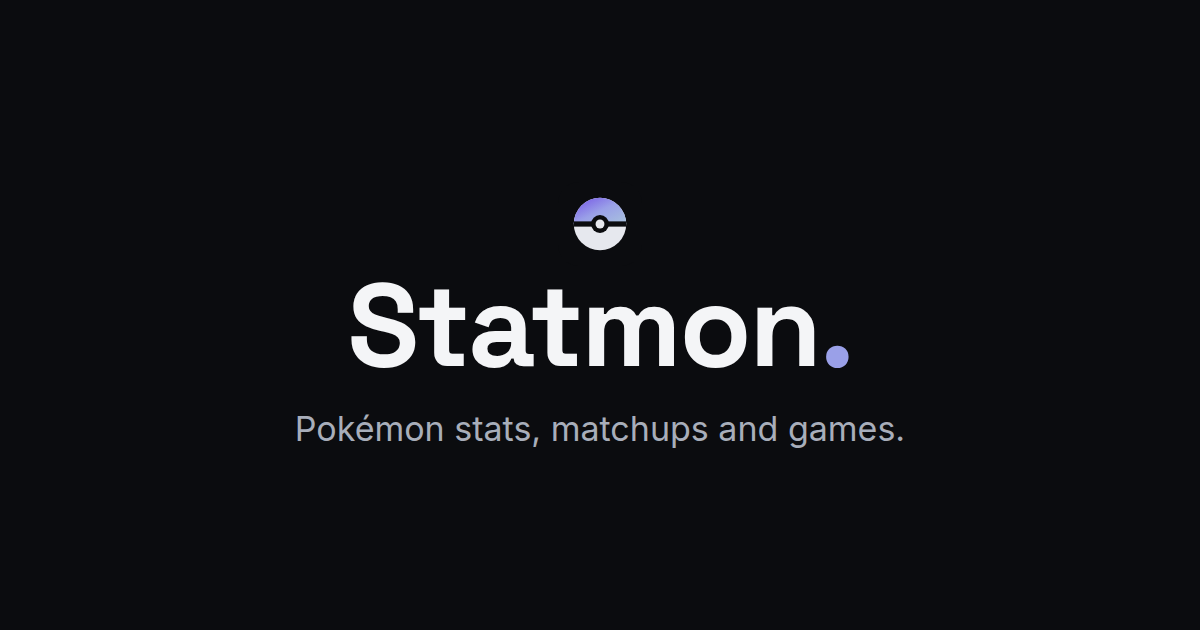
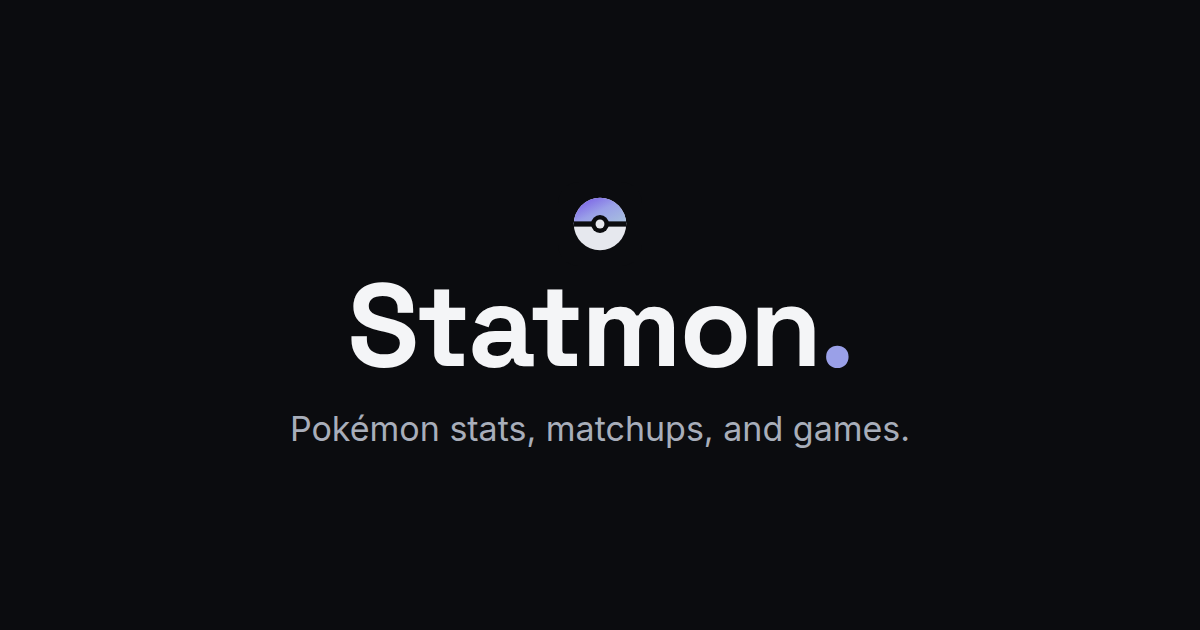
Used the serial comma throughout the site and README, starting with the tagline

Changed region(s): [[0.2158, 0.6635, 0.7708, 0.7238]]

diff --git a/index.html b/index.html
@@ -18,7 +18,7 @@
     <link rel="manifest" href="/site.webmanifest" />
     <meta name="theme-color" content="#0b0c0f" />
 
-    <title>Statmon — Pokémon comparison, dex, type chart and games</title>
+    <title>Statmon — Pokémon comparison, dex, type chart, and games</title>
     <meta
       name="description"
       content="Compare two Pokémon head to head, rank the whole dex by any stat, and read the full type chart including dual types, each as of any generation. Then drill it all in the games."
@@ -33,7 +33,7 @@
     <meta property="og:site_name" content="Statmon" />
     <meta
       property="og:title"
-      content="Statmon — Pokémon comparison, dex, type chart and games"
+      content="Statmon — Pokémon comparison, dex, type chart, and games"
     />
     <meta
       property="og:description"
@@ -47,14 +47,14 @@
     <meta property="og:image:height" content="630" />
     <meta
       property="og:image:alt"
-      content="The Statmon wordmark over the line: Pokémon stats, matchups and games."
+      content="The Statmon wordmark over the line: Pokémon stats, matchups, and games."
     />
     <meta property="og:url" content="https://statmon.noahpn.dev/" />
 
     <meta name="twitter:card" content="summary_large_image" />
     <meta
       name="twitter:title"
-      content="Statmon — Pokémon comparison, dex, type chart and games"
+      content="Statmon — Pokémon comparison, dex, type chart, and games"
     />
     <meta
       name="twitter:description"

diff --git a/src/components/Layout.jsx b/src/components/Layout.jsx
@@ -29,7 +29,7 @@ const DEX_SIZE = ALL_POKEMON.length;
 // tools", so a crawler and a visitor who clicked Home read two different names
 // for the same page. Nothing checked it, because no check reads prose (D-086) —
 // routes.test.jsx now reads both files and asserts they agree. (D-091)
-const SITE_TITLE = "Statmon — Pokémon comparison, dex, type chart and games";
+const SITE_TITLE = "Statmon — Pokémon comparison, dex, type chart, and games";
 
 // `h-14` is the header's own height, and it is a target-size fix rather than a
 // layout one: these were bare 14px text with no padding, so the clickable box
@@ -459,7 +459,7 @@ export default function Layout() {
                   repository
                   <span className="sr-only"> (opens in a new tab)</span>
                 </a>
-                . Pokémon is © Nintendo, Game Freak and The Pokémon Company.
+                . Pokémon is © Nintendo, Game Freak, and The Pokémon Company.
                 Statmon is an unofficial fan project.
               </p>
               <p className="shrink-0 text-caption text-tertiary sm:text-right">

diff --git a/src/routes.test.jsx b/src/routes.test.jsx
@@ -710,7 +710,7 @@ describe("Home's feature previews (D-043)", () => {
     // was true of every layout this page has had.
     // Found first, then ordered: an `indexOf` of -1 is less than anything,
     // so a renamed tagline would otherwise pass this by not being there.
-    const tagline = page.indexOf("Pokémon stats, matchups and games");
+    const tagline = page.indexOf("Pokémon stats, matchups, and games");
     expect(tagline).toBeGreaterThan(-1);
     expect(tagline).toBeLessThan(page.indexOf("Volcarona"));
   });
@@ -910,7 +910,7 @@ describe("Home's feature previews (D-043)", () => {
   // guarantee — the audit proves the number, this proves the site still uses it.
   it("keeps the hero tagline on the colour the scrim was audited for", () => {
     const tagline = render("/").match(
-      /<p[^>]*>Pokémon stats, matchups and games\.<\/p>/,
+      /<p[^>]*>Pokémon stats, matchups, and games\.<\/p>/,
     )?.[0];
     expect(tagline).toBeDefined();
     expect(tagline).toContain("text-primary");

diff --git a/docs/og-image.html b/docs/og-image.html
@@ -152,7 +152,7 @@
         <div class="brand">
           <img class="fav" src="../public/favicon.svg" alt="" />
           <div class="word">Statmon<span class="dot">.</span></div>
-          <div class="sub">Pokémon stats, matchups and games.</div>
+          <div class="sub">Pokémon stats, matchups, and games.</div>
         </div>
       </div>
     </div>
@@ -164,7 +164,7 @@
         <div class="brand">
           <img class="fav" src="../public/favicon.svg" alt="" />
           <div class="word">Statmon<span class="dot">.</span></div>
-          <div class="sub">Pokémon stats, matchups and games.</div>
+          <div class="sub">Pokémon stats, matchups, and games.</div>
         </div>
       </div>
     </div>

diff --git a/src/pages/Home.jsx b/src/pages/Home.jsx
@@ -52,7 +52,7 @@ export default function Home() {
             site that called the site something, which §14 rules out. This one
             says what is here. */}
         <p className="mx-auto mt-3 max-w-xl text-body-lg text-primary">
-          Pokémon stats, matchups and games.
+          Pokémon stats, matchups, and games.
         </p>
       </SpriteWall>
 

diff --git a/README.md b/README.md
@@ -1,6 +1,6 @@
 # Statmon
 
-Pokémon reference tools, built for myself: a side-by-side stat comparison, the whole dex in one sortable table, and a type chart that handles dual types. Each can be read as of any generation, with that generation's stats, typings and type chart. Two games use the same data to quiz you instead.
+Pokémon reference tools, built for myself: a side-by-side stat comparison, the whole dex in one sortable table, and a type chart that handles dual types. Each can be read as of any generation, with that generation's stats, typings, and type chart. Two games use the same data to quiz you instead.
 
 **Live at [statmon.noahpn.dev](https://statmon.noahpn.dev/).** The [About](https://statmon.noahpn.dev/about) page says more about why it exists.
 
@@ -8,7 +8,7 @@ Pokémon reference tools, built for myself: a side-by-side stat comparison, the 
 
 ## Why
 
-Sometimes I go on a nostalgia trip and play a ton of old childhood games. One summer that turned into playing every mainline Pokémon game end to end, Generation 1 through 5. Every playthrough, I'd hit a fork in the road where I had to pick between two Pokémon, and what mattered most to me was speed and attack. The sites I found for comparing them either looked a little outdated or were cluttered with features I didn't need. So I built a lighter version of my own: minimal, quick and clear.
+Sometimes I go on a nostalgia trip and play a ton of old childhood games. One summer that turned into playing every mainline Pokémon game end to end, Generation 1 through 5. Every playthrough, I'd hit a fork in the road where I had to pick between two Pokémon, and what mattered most to me was speed and attack. The sites I found for comparing them either looked a little outdated or were cluttered with features I didn't need. So I built a lighter version of my own: minimal, quick, and clear.
 
 Playing the old games again also turned up something the site was quietly getting wrong. Generation 1 has no Sp. Attack or Sp. Defense: one Special stat covers both. Plenty of Pokémon have had their stats or typing changed since, too. So every tool can now be read as of an earlier generation, with the numbers that were actually in the game then.
 
@@ -39,11 +39,11 @@ The same data, asking the questions instead. Every round ends with a link into t
 
 ## How it works
 
-Everything comes from [PokéAPI](https://pokeapi.co), pulled once at build time into a local JSON file. The sprites, the artwork and both webfonts are downloaded and committed to the repo. So the site requests nothing from any other server: it's static files, and its Content Security Policy only allows its own origin. Search, the stat math and the type matchups all run against the local data.
+Everything comes from [PokéAPI](https://pokeapi.co), pulled once at build time into a local JSON file. The sprites, the artwork, and both webfonts are downloaded and committed to the repo. So the site requests nothing from any other server: it's static files, and its Content Security Policy only allows its own origin. Search, the stat math, and the type matchups all run against the local data.
 
 Two parts are written by hand. The type chart has three eras (Gen 1, Gen 2 to 5, and Gen 6 on), and every data build checks all three against PokéAPI, so a typo fails the build. The 20 ability effects are a table too, because PokéAPI describes what an ability does only in prose: Levitate's entry reads "Evades Ground moves." The build checks that each one is a real ability some Pokémon has, and unit tests cover what each one does.
 
-It's built with React, Vite, Tailwind, React Router and plain JavaScript, and served as static assets on Cloudflare Workers.
+It's built with React, Vite, Tailwind, React Router, and plain JavaScript, and served as static assets on Cloudflare Workers.
 
 ## Run it
 
@@ -54,7 +54,7 @@ npm install
 npm run dev
 ```
 
-The dataset, sprites and fonts are already committed, so that's all it takes. When something upstream changes, `npm run build:data` rebuilds the dataset from PokéAPI, `npm run vendor:images` fetches the sprites and artwork, and `npm run vendor:fonts` fetches the fonts with their licences.
+The dataset, sprites, and fonts are already committed, so that's all it takes. When something upstream changes, `npm run build:data` rebuilds the dataset from PokéAPI, `npm run vendor:images` fetches the sprites and artwork, and `npm run vendor:fonts` fetches the fonts with their licences.
 
 ## Checks
 
@@ -63,7 +63,7 @@ The dataset, sprites and fonts are already committed, so that's all it takes. Wh
 - `lint`: ESLint.
 - `format:check`: Prettier.
 - `audit:classes`: no class string sets the same CSS property twice. Tailwind resolves those by stylesheet order, not by the order they're written, so the one that wins isn't the one you meant.
-- `audit:styles`: every utility is one the [style guide](docs/06_style_guide.md) allows. Colours are semantic tokens, text uses the 22 named styles, and spacing, radius, opacity and layering each come from a closed set. A value the guide doesn't list fails.
+- `audit:styles`: every utility is one the [style guide](docs/06_style_guide.md) allows. Colours are semantic tokens, text uses the 22 named styles, and spacing, radius, opacity, and layering each come from a closed set. A value the guide doesn't list fails.
 - `test:run`: 497 unit tests, covering the stat math, the dex's sorting and filters, the generation lens, the ability table, both games' question generators, a server render of every route, accessibility and copy regressions, and one implementation of each shared component.
 - `build`: the production build.
 - `audit:contrast`: WCAG AA contrast for every text and colour pairing, in 12 groups, including text on all 18 type tints, text on the flame gradient, and the edges of the text fields.
@@ -74,20 +74,20 @@ On every push to `main`, GitHub Actions runs the same nine. `npm run shoot:docs`
 
 ## Limits
 
-- **Stats, types and abilities only.** No moves, movesets, EVs, IVs or natures, and no damage calculator.
+- **Stats, types, and abilities only.** No moves, movesets, EVs, IVs, or natures, and no damage calculator.
 - **Only the 20 abilities in the table change the numbers.** Every other ability is shown on its card without affecting a matchup. Dry Skin's extra damage from Fire (1.25×) isn't modelled either, because the chart has no room for it.
 - **The data is a snapshot.** It's rebuilt from PokéAPI by hand, so Pokémon released after the last build aren't in it.
-- **Effective never asks for ⅛×.** A double resistance plus an ability that halves again reaches it, but only four Pokémon can: Dewgong, Spheal, Sealeo and Walrein. The type chart still shows it.
+- **Effective never asks for ⅛×.** A double resistance plus an ability that halves again reaches it, but only four Pokémon can: Dewgong, Spheal, Sealeo, and Walrein. The type chart still shows it.
 
 ## Docs
 
-My working notes are in [`docs/`](docs/): the original brainstorm, the spec, the design system and a dated log of why things are built the way they are. To see how I think through a project, start with the [decision log](docs/03_decisions.md).
+My working notes are in [`docs/`](docs/): the original brainstorm, the spec, the design system, and a dated log of why things are built the way they are. To see how I think through a project, start with the [decision log](docs/03_decisions.md).
 
 ## Credits
 
 Data and images come from [PokéAPI](https://pokeapi.co), and the sprites are CC0. The two webfonts, Inter and Space Grotesk, are under the SIL Open Font License, and the carets on the comparison board and the dex are from Font Awesome Free (CC BY 4.0). Every third-party notice is in [`licenses/NOTICE.md`](licenses/NOTICE.md). `npm run vendor:fonts` fetches the font licences along with the fonts, so a re-vendor can't drop them.
 
-Pokémon is © Nintendo, Game Freak and The Pokémon Company. Statmon is an unofficial fan project.
+Pokémon is © Nintendo, Game Freak, and The Pokémon Company. Statmon is an unofficial fan project.
 
 ## Licence
 

diff --git a/docs/06_style_guide.md b/docs/06_style_guide.md
@@ -929,7 +929,7 @@ Every user-facing string describes a **mechanism rather than a benefit**:
 > "See who's faster, hits harder, and is bulkier." · "The same data, asking you
 > the questions." · "Every matchup, including dual types."
 
-Not one claims the site is fast, clean or minimal. The pages demonstrate that;
+Not one claims the site is fast, clean, or minimal. The pages demonstrate that;
 saying it would be the site arguing with the reader about its own qualities.
 There is exactly one joke, **"This page fainted."**, delivered flat and never
 explained. That is the calibration point for humour: one, dry, unremarked.
@@ -948,20 +948,27 @@ explained. That is the calibration point for humour: one, dry, unremarked.
 7. **Say it once.** No sentence whose only job is to restate the one before it.
 8. **Contractions on.** It is a person talking, not a product.
 9. **No em dash in a sentence** ([D-138](03_decisions.md#d-138)). A colon, a
-   comma or a full stop does the job, and a sentence leaning on em dashes is
+   comma, or a full stop does the job, and a sentence leaning on em dashes is
    the habit most often read as machine-written. The dash survives only as a
    glyph that stands alone: a tie, an empty slot, a separator between a label
    and its value in a heading, a page title's separator. _Checked by
-   `routes.test.jsx` over every JSX text node, the tier sentences and the
+   `routes.test.jsx` over every JSX text node, the tier sentences, and the
    site's description._
+10. **The serial comma, always** ([D-145](03_decisions.md#d-145)): "Pokémon
+    stats, matchups, and games." It is the form the site's author writes
+    unprompted and the portfolio's rule, and it never leaves the last two items
+    reading as a pair. It covers the README and the other front-facing files
+    too. _Read for rather than tested_: a pattern that finds these lists also
+    finds sentences that are not lists, like "Name the multiplier, dual types
+    and abilities included."
 
 **No adjective the site applies to itself.** The hero line was "A simple set of
 Pokémon tools." until D-138, the one string on the site that called the site
-something; it says what is here now: "Pokémon stats, matchups and games."
+something; it says what is here now: "Pokémon stats, matchups, and games."
 
 ### 14.1 The UI voice
 
-Everything above applies to **controls, labels, empty states and section
+Everything above applies to **controls, labels, empty states, and section
 descriptions**: the strings that sit next to something rather than being the
 something. A fragment is fine here; "Pick two Pokémon to compare." is a whole
 empty state.

diff --git a/docs/03_decisions.md b/docs/03_decisions.md
@@ -6,6 +6,35 @@ _A dated log of what's decided and **why**. The highest-value doc for a solo dev
 
 ## 2026-10-04 — Session 32 (the rulebook, and every near-copy it found)
 
+<a id="d-145"></a>
+
+### D-145 · The serial comma, always — **Firm** _(extends [D-138](#d-138))_
+
+**Reported as** "why not use an Oxford comma for our tagline?"
+
+**There was no rule, and the copy was split.** Counted before anything
+changed: on the site, lists with the serial comma ("faster, hits harder, and is
+bulkier", the site's description) sat beside lists without it (the tagline,
+the page title, the footer's legal line), and the README had 3 with it and 12
+without. The site's owner writes it unprompted: the portfolio's voice guide
+records it as his form, and his GitHub profile uses it in all five of its
+lists.
+
+**So it is a rule, §14's tenth, rather than a one-line fix.** The tagline, the
+page title (in `index.html`, `Layout`, and the web manifest), the footer's
+legal line, the README's twelve lists, and the trademark line in
+`licenses/NOTICE.md` all take it. `/style` is left out, as it is from every
+copy rule, because it is documentation for whoever builds the site; so is
+`docs/`, which is working notes. The social image, the GitHub preview, and the
+README's home screenshot carry the tagline, and were regenerated.
+
+**It is the one copy rule that is read for rather than tested.** A pattern
+that finds "A, B and C" also finds sentences that are not lists, like "Name the
+multiplier, dual types and abilities included.", and a check that flags good
+copy is a check people learn to ignore.
+
+---
+
 <a id="d-144"></a>
 
 ### D-144 · One colour per surface: a dual type loses its gradient — **Firm** _(reverses part of [D-107](#d-107) and [D-115](#d-115), retires [D-130](#d-130) and [D-133](#d-133))_

diff --git a/docs/05_roadmap.md b/docs/05_roadmap.md
@@ -8,9 +8,9 @@ _The phased build plan / task checklist: what to implement, in order. Sequenced 
 
 ## Current status (2026-10-04 — Session 32, the rulebook)
 
-**Done — the style guide is a rulebook, and the build enforces it.** Eleven
+**Done — the style guide is a rulebook, and the build enforces it.** Twelve
 decisions ([D-134](03_decisions.md#d-134) through
-[D-144](03_decisions.md#d-144)).
+[D-145](03_decisions.md#d-145)).
 
 - **A ninth check.** `audit:styles` fails on any utility the guide does not
   allow: semantic colours, the 22 named styles, the spacing scale, five role
@@ -26,8 +26,9 @@ decisions ([D-134](03_decisions.md#d-134) through
   for them.
 - **Six layout faults**, from the difficulty picker's title touching the header
   to the generation strip leaving its selected chip alone on a phone.
-- **A copy pass**: no em dash in a sentence, a hero line that describes the site
-  instead of praising it, and a copy test that could not see wrapped sentences.
+- **A copy pass**: no em dash in a sentence, the serial comma always, a hero
+  line that describes the site instead of praising it, and a copy test that
+  could not see wrapped sentences.
 - **An alignment pass, measured across the site.** The tools' controls panel
   spaces its own blocks, so the dex and the type chart line up; the dex's number
   headers sit over their numbers; a dex row's text shares one line; selecting a

diff --git a/licenses/NOTICE.md b/licenses/NOTICE.md
@@ -63,6 +63,6 @@ credit is a courtesy rather than a requirement.
 
 ## Trademarks
 
-Pokémon and Pokémon character names are trademarks of Nintendo, Game Freak and
+Pokémon and Pokémon character names are trademarks of Nintendo, Game Freak, and
 The Pokémon Company. Statmon is an unofficial fan project and is not affiliated
 with, endorsed by, or sponsored by any of them.
